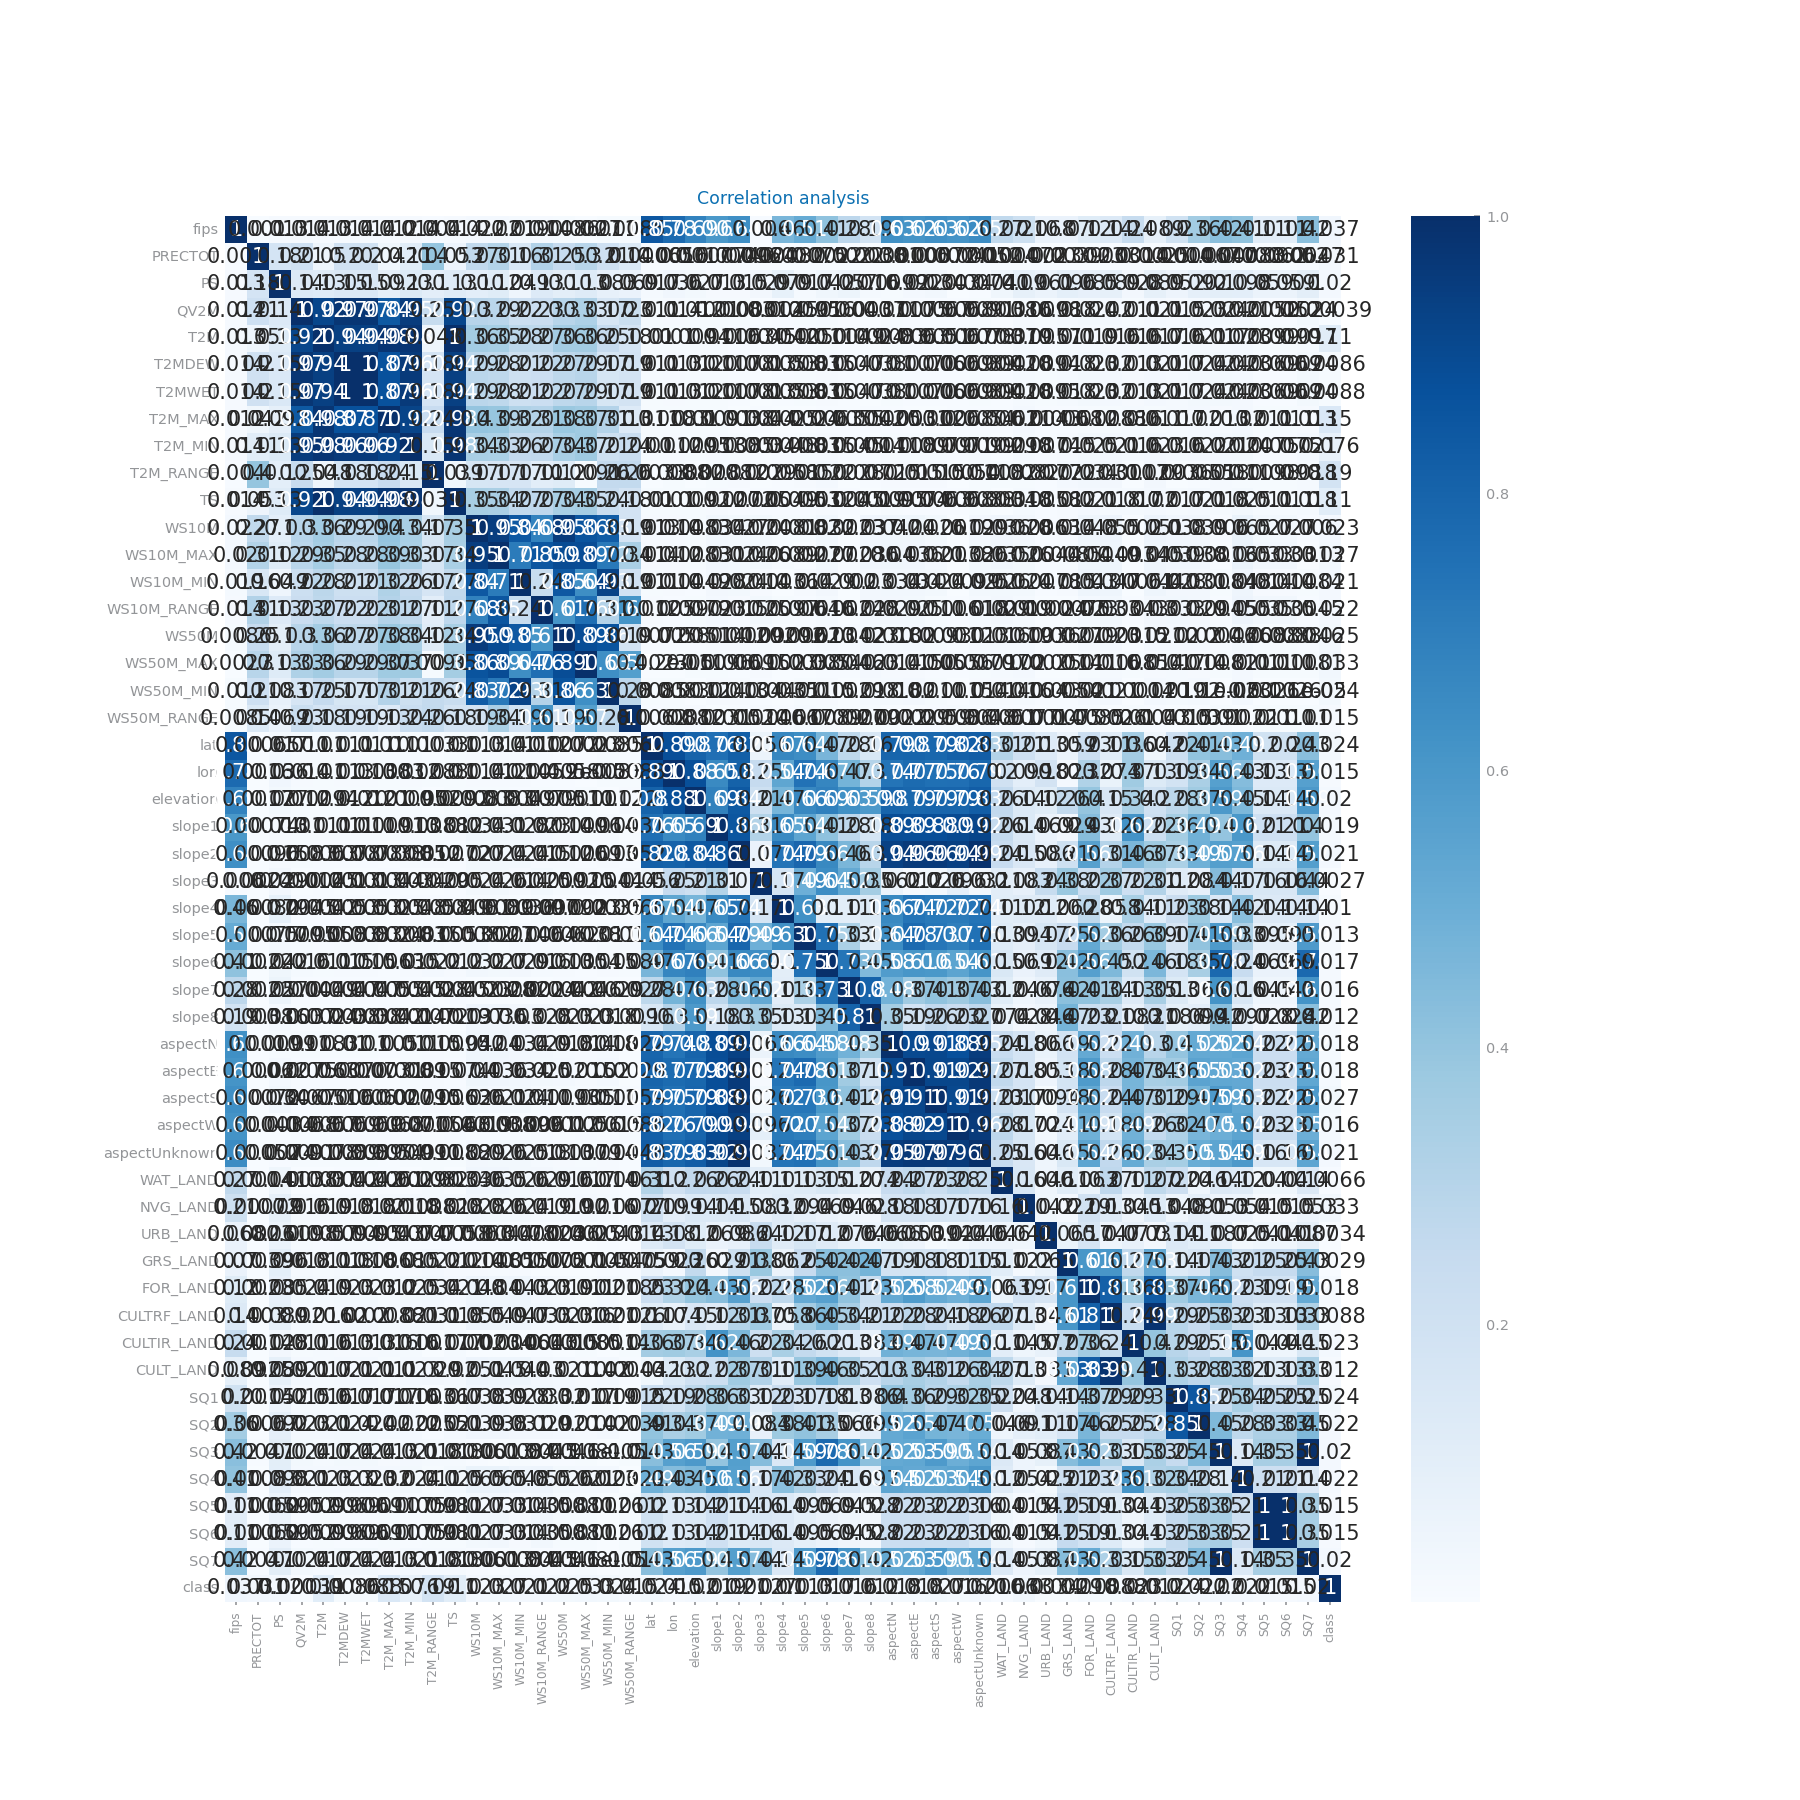
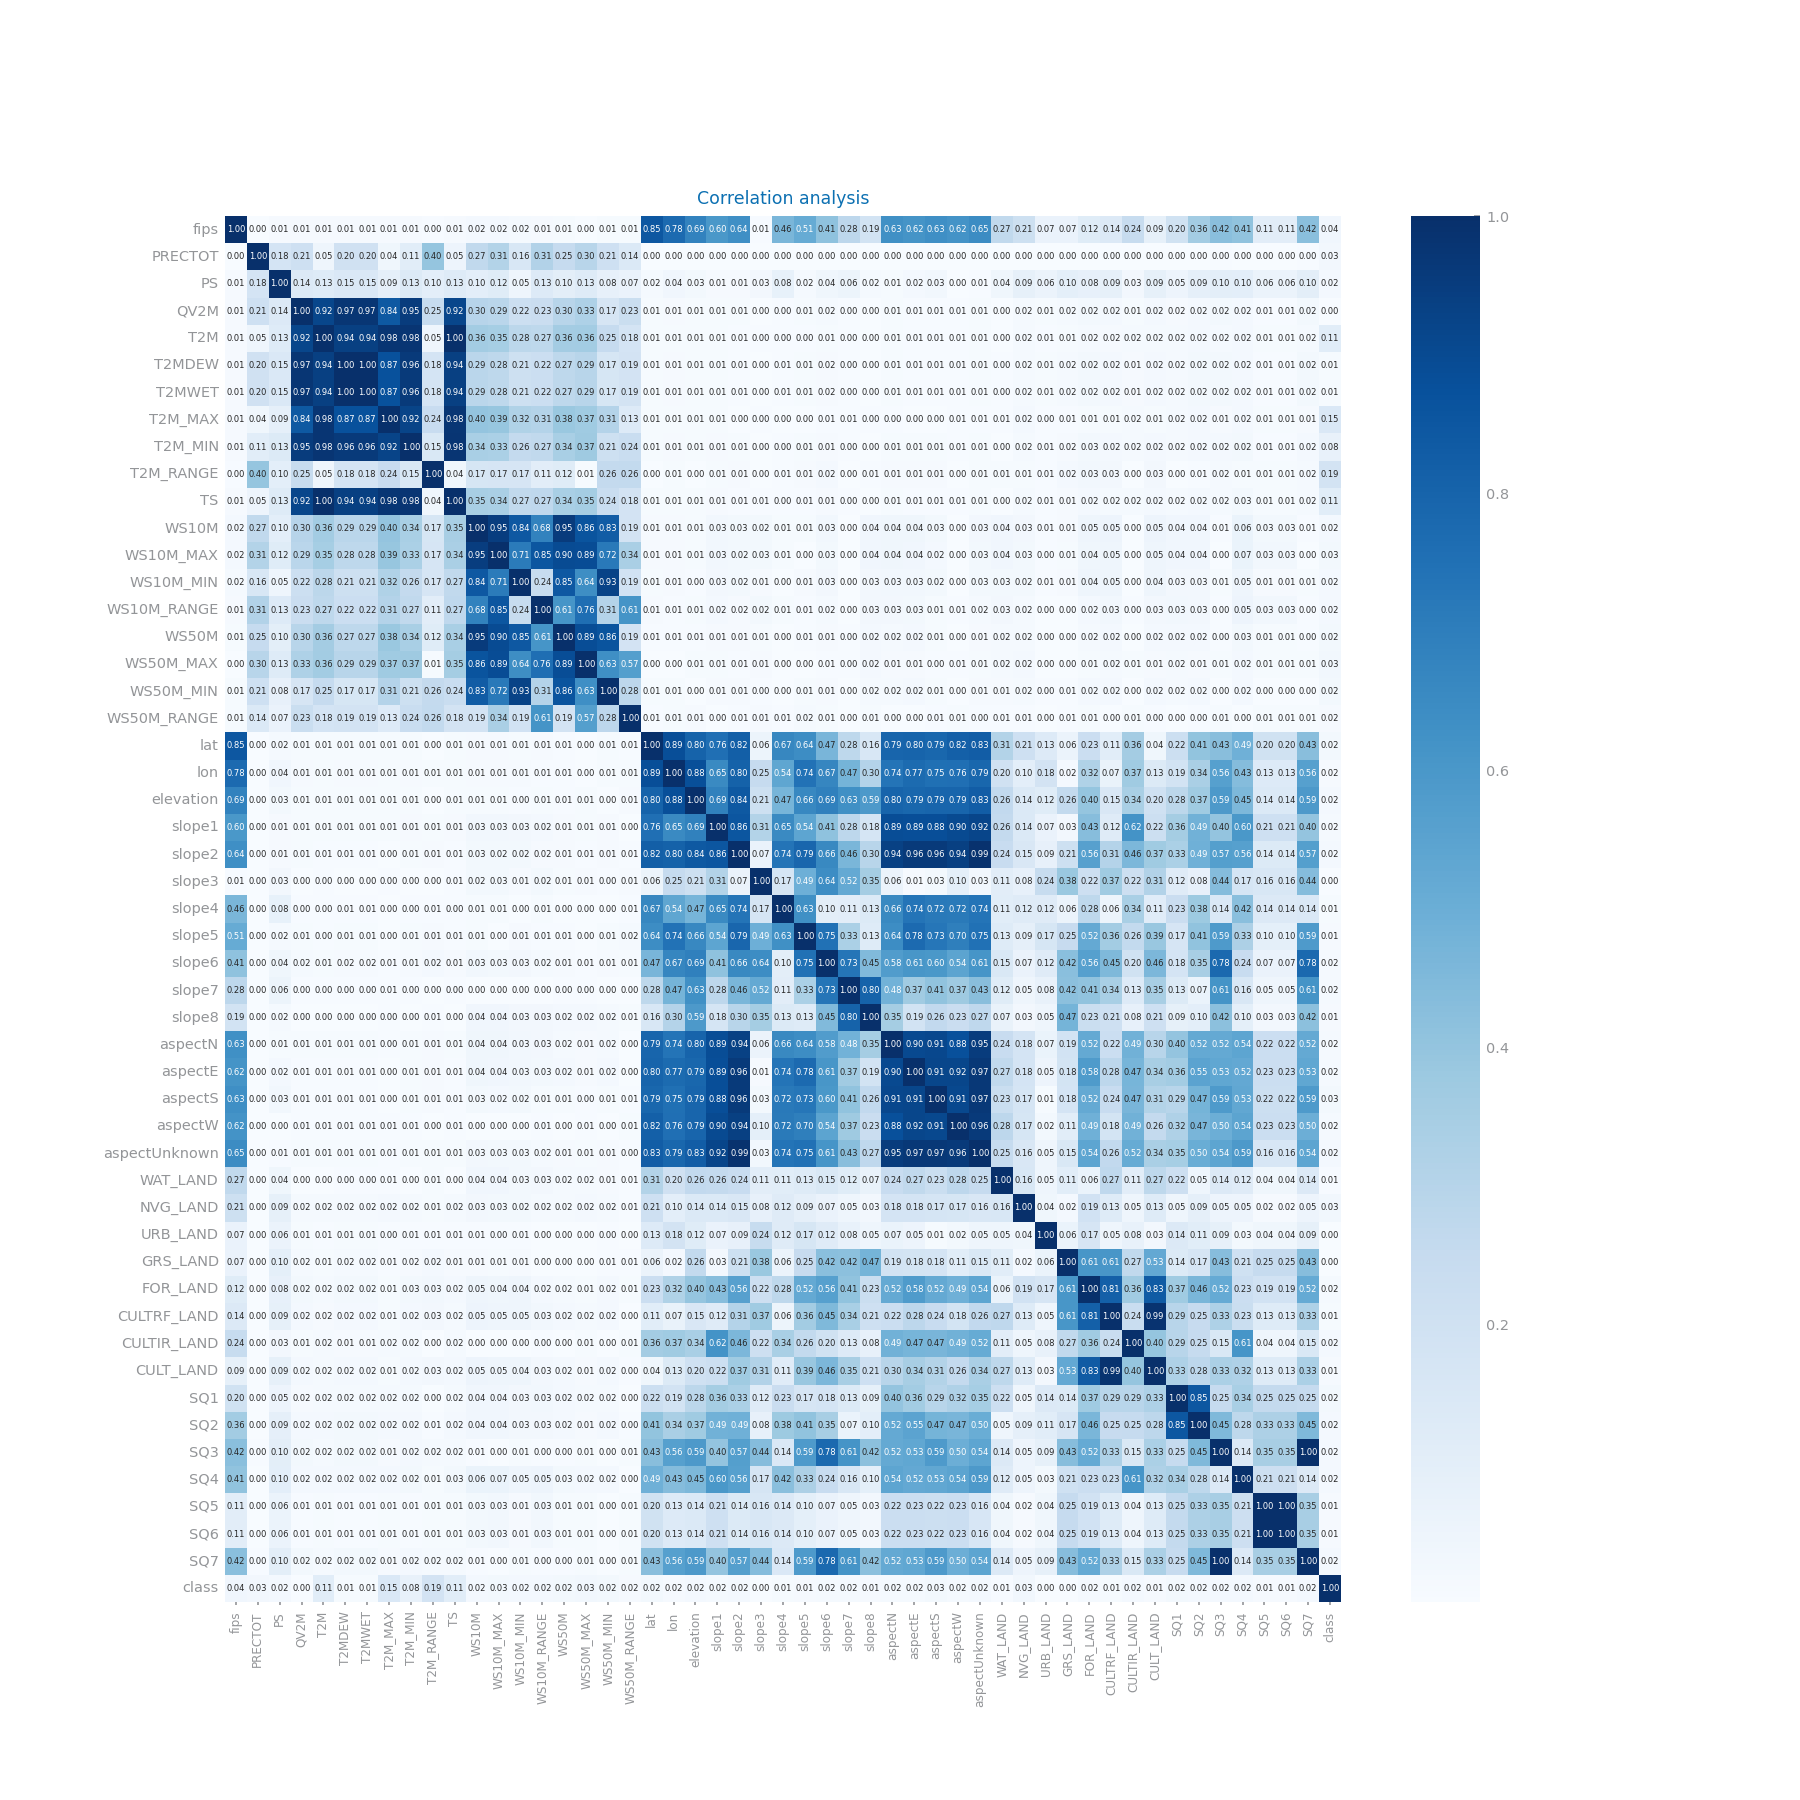
Resizing heatmap 2

Changed region(s): [[0.1244, 0.1244, 0.7467, 0.9022]]

diff --git a/Sparsity/dataset2.py b/Sparsity/dataset2.py
@@ -31,7 +31,7 @@ show()'''
 fig = figure(figsize=[12, 12])
 corr_mtx = abs(data.corr())
 
-heatmap(abs(corr_mtx), xticklabels=corr_mtx.columns, yticklabels=corr_mtx.columns, annot=True, cmap='Blues')
+heatmap(abs(corr_mtx), xticklabels=corr_mtx.columns, yticklabels=corr_mtx.columns, annot=True, cmap='Blues',annot_kws={"size": 4},fmt=".2f")
 title('Correlation analysis')
 savefig(f'imageD2/correlation_analysis.png')
 show()
